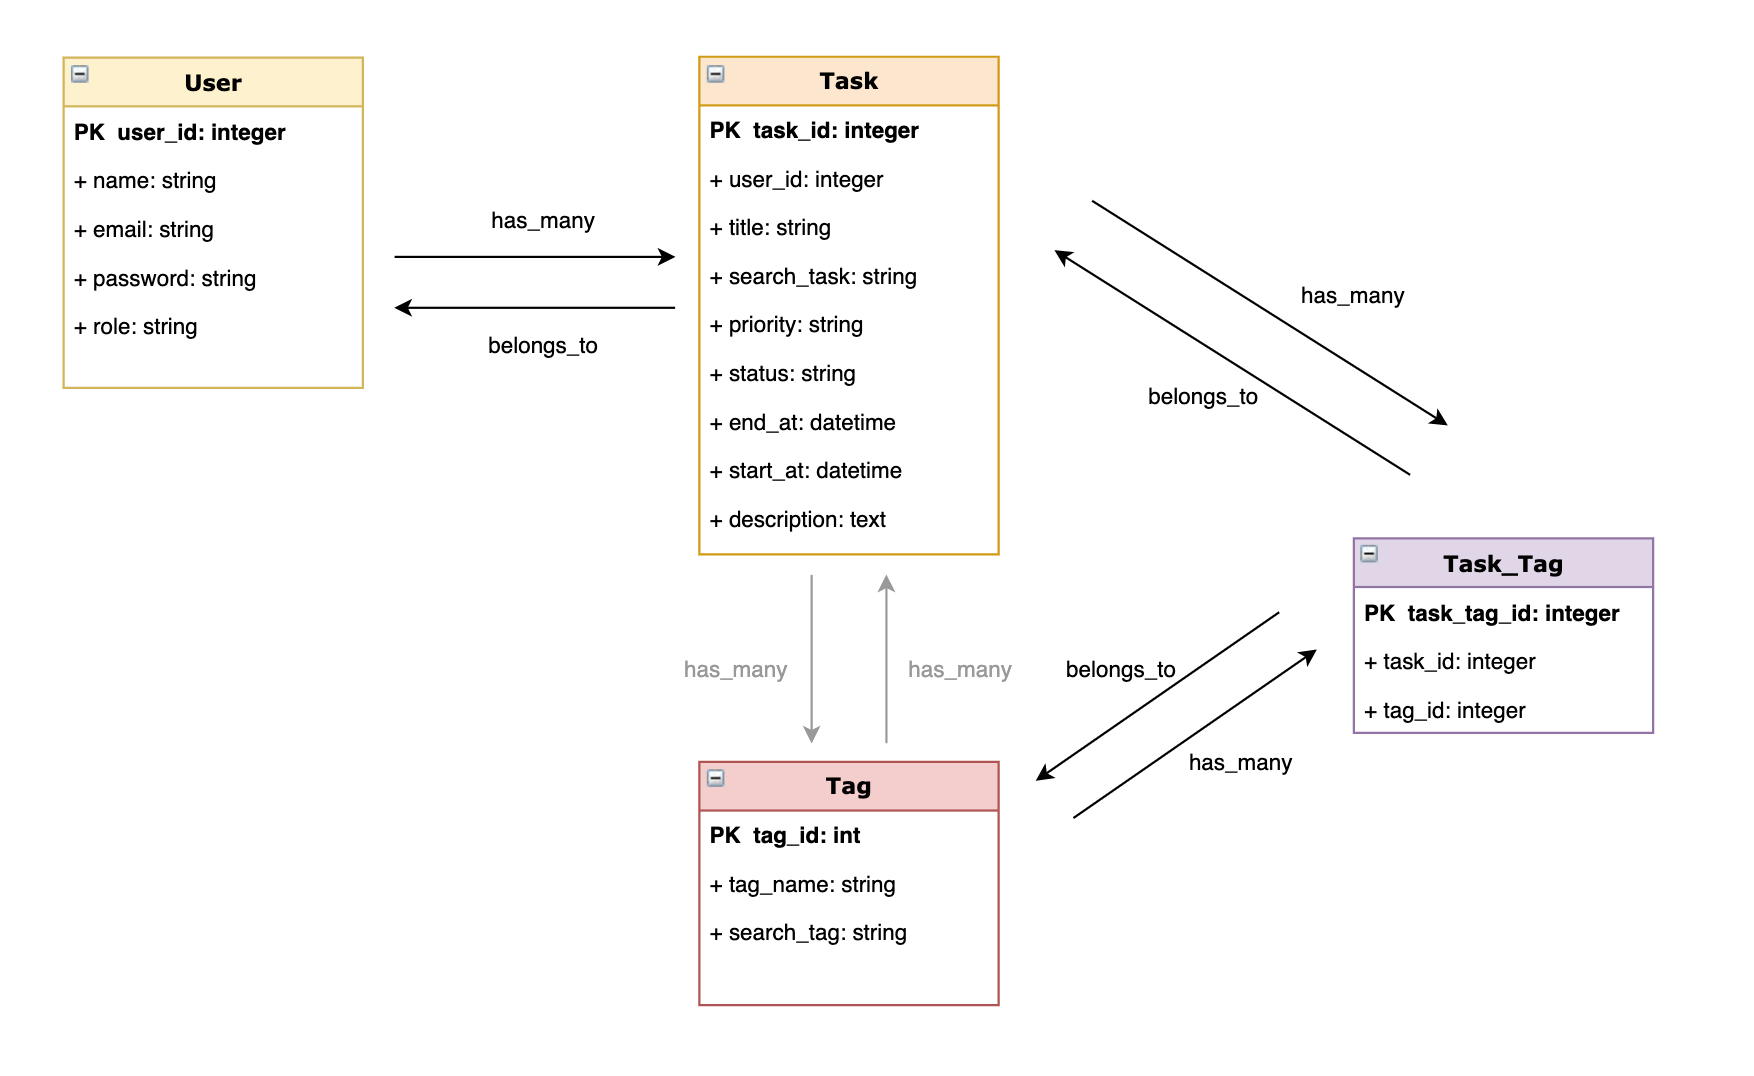
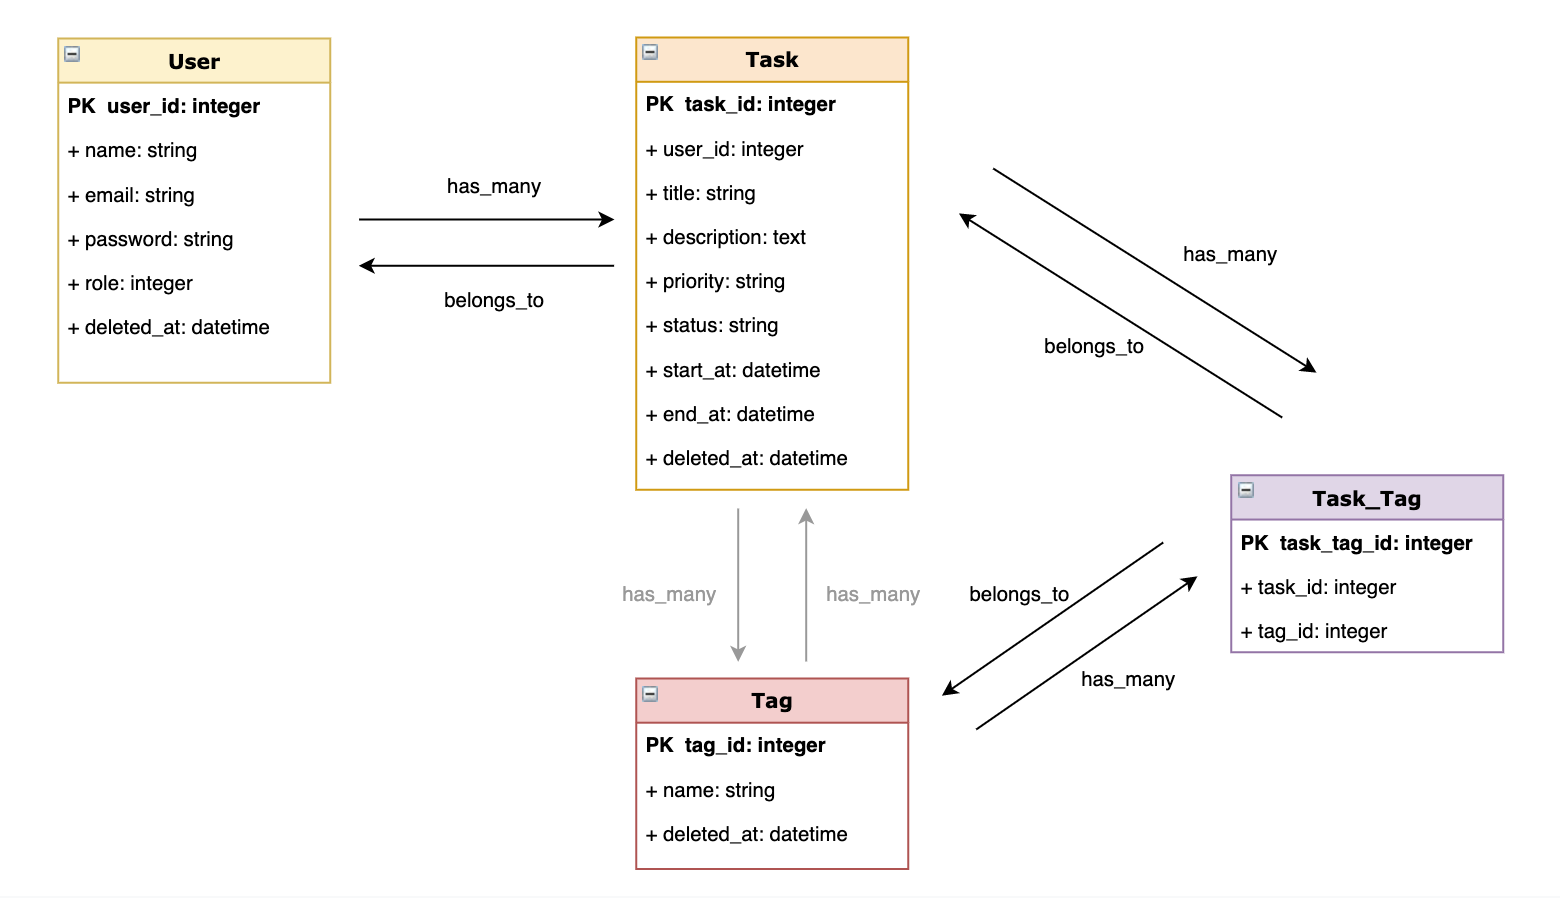
update README.md and ERD

diff --git a/README.md b/README.md
@@ -4,7 +4,7 @@
 ![](https://i.imgur.com/aghViM5.png)
 
 # 2. ERD
-![](https://i.imgur.com/i37oPFI.png)
+![](https://i.imgur.com/7qOgOI9.png)
 
 ## 2-1 Model 
 
@@ -31,8 +31,12 @@
      <td>string</td> 
    </tr>
    <tr>
-    <td>role</td> 
-    <td>string</td> 
+     <td>role</td> 
+     <td>integer</td> 
+   </tr>
+   <tr>
+     <td>deleted_at</td> 
+     <td>datetime</td> 
    </tr>
 </table>
 
@@ -74,10 +78,10 @@
      <td>priority</td>
      <td>string</td>
   </tr>
-  <tr>
-    <td>search_task</td>
-    <td>string</td>
-  </tr>
+   <tr>
+     <td>deleted_at</td> 
+     <td>datetime</td> 
+   </tr>
 </table>
 
 
@@ -92,13 +96,13 @@
      <td>integer</td> 
    </tr>
    <tr>
-     <td>tag_name</td> 
+     <td>name</td> 
      <td>string</td> 
   </tr>
-  <tr>
-    <td>search_tag</td>
-    <td>string</td>
-  </tr>
+   <tr>
+     <td>deleted_at</td> 
+     <td>datetime</td> 
+   </tr>
 </table>  
 
 ### 2-1-4 Task_Tag
